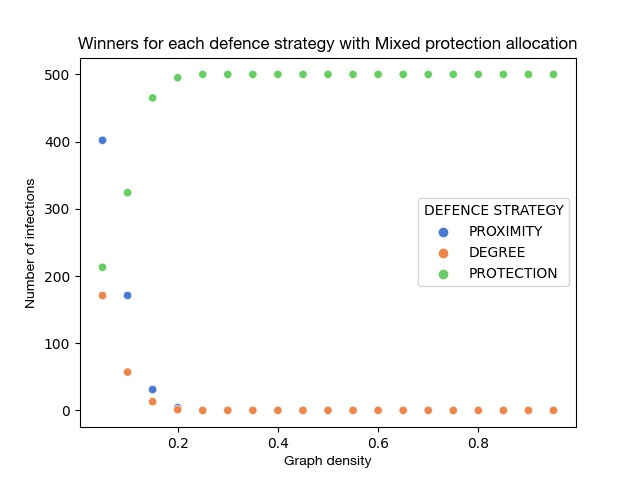
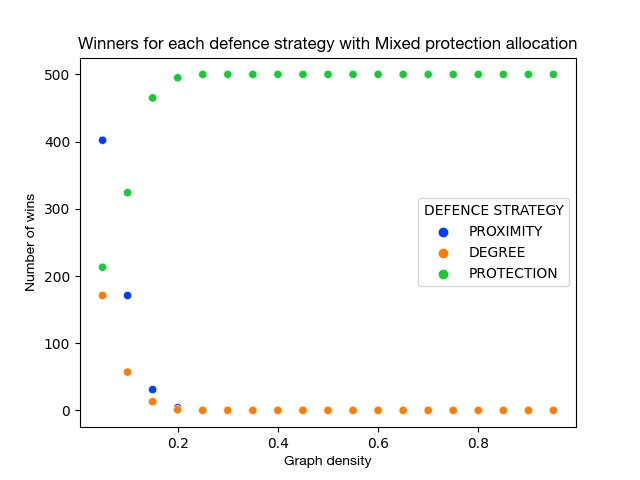
Refactoring

diff --git a/src/chart.py b/src/chart.py
@@ -15,7 +15,7 @@ def create_graph(data, strategy_name):
     print(data)  # Print the data to verify
 
     # Scatter plot using seaborn to colour data points by strategy
-    sns.scatterplot(x=data['P VALUE'], y=data['NUMBER OF WINS'], hue=data['DEFENCE STRATEGY'], palette="muted")
+    sns.scatterplot(x=data['P VALUE'], y=data['NUMBER OF WINS'], hue=data['DEFENCE STRATEGY'], palette="bright")
 
     # Setting the chart title and axis labels
     font = {'fontname': 'Helvetica Neue'}
